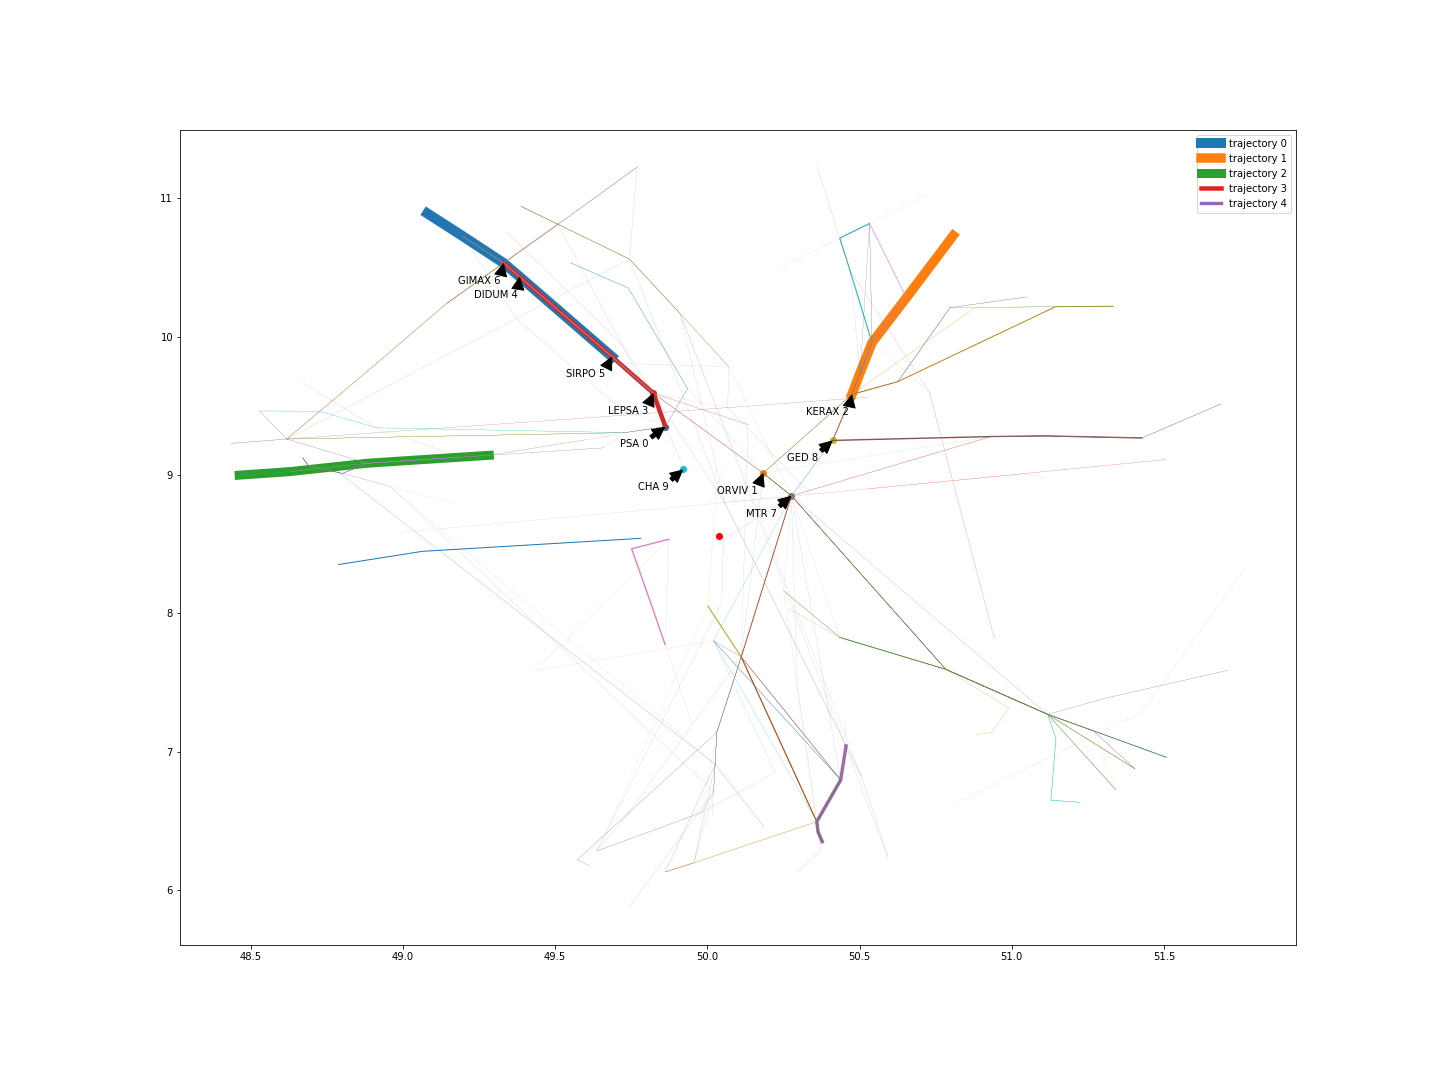
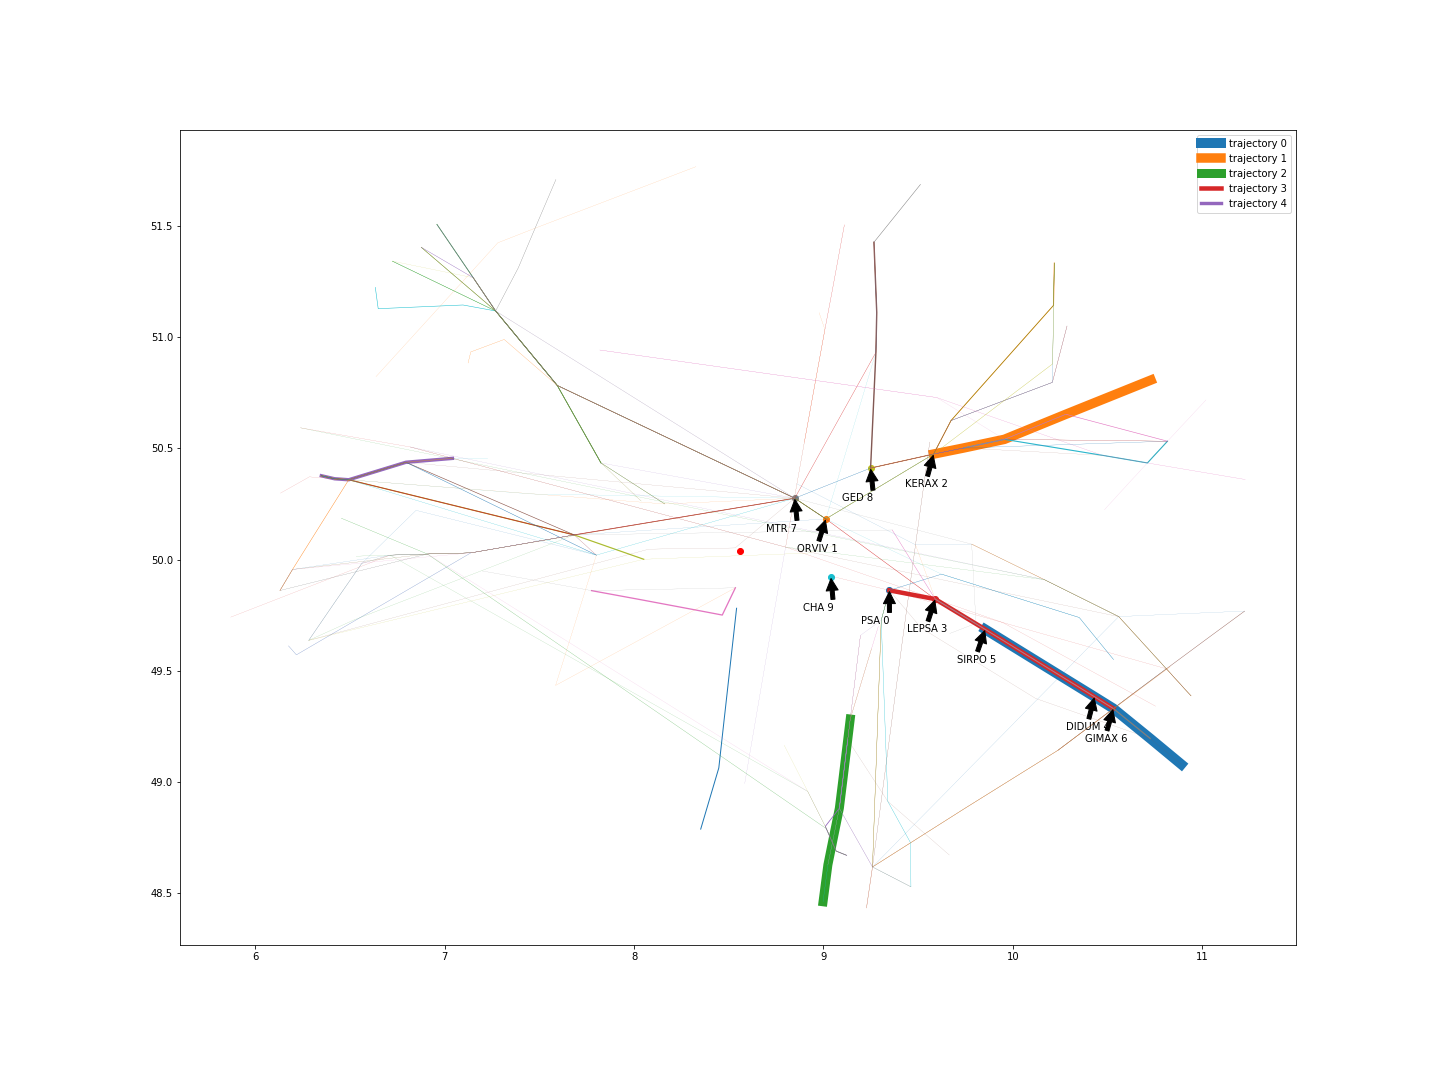
w:o:c

diff --git a/trajectory_study.py b/trajectory_study.py
@@ -394,19 +394,19 @@ for i in range(coord_traj.shape[0]):
     tr = coord_traj.iloc[i]
     if(i<5):
         if(tr["wp1"]!="None" and tr["wp2"]!="None" and tr["wp3"]!="None" and tr["wp4"]!="None" and tr["wp5"]!="None"):
-            plt.plot(coordinate_x[i,:],coordinate_y[i,:],linewidth=num_percorsi[i]/10,label = "trajectory "+str(i))
+            plt.plot(coordinate_y[i,:],coordinate_x[i,:],linewidth=num_percorsi[i]/10,label = "trajectory "+str(i))
 
         if(tr["wp1"]!="None" and tr["wp2"]!="None" and tr["wp3"]!="None" and
             tr["wp4"]!="None" and tr["wp5"]=="None"):
-                plt.plot(coordinate_x[i,:-1],coordinate_y[i,:-1],linewidth=num_percorsi[i]/10)
+                plt.plot(coordinate_y[i,:-1],coordinate_x[i,:-1],linewidth=num_percorsi[i]/10)
         if(tr["wp1"]!="None" and tr["wp2"]!="None" and tr["wp3"]!="None" and
             tr["wp4"]=="None" and tr["wp5"]=="None"):
-                plt.plot(coordinate_x[i,:-2],coordinate_y[i,:-2],linewidth=num_percorsi[i]/10)
+                plt.plot(coordinate_y[i,:-2],coordinate_x[i,:-2],linewidth=num_percorsi[i]/10)
         else:
             continue
     if(i>=5):
         if(tr["wp1"]!="None" and tr["wp2"]!="None" and tr["wp3"]!="None" and tr["wp4"]!="None" and tr["wp5"]!="None"):
-            plt.plot(coordinate_x[i,:],coordinate_y[i,:],linewidth=num_percorsi[i]/10)
+            plt.plot(coordinate_y[i,:],coordinate_x[i,:],linewidth=num_percorsi[i]/10)
 
         #if(tr["wp1"]!="None" and tr["wp2"]!="None" and tr["wp3"]!="None" and
         #    tr["wp4"]!="None" and tr["wp5"]=="None"):
@@ -416,14 +416,14 @@ for i in range(coord_traj.shape[0]):
         #        plt.plot(coordinate_x[i,:-2],coordinate_y[i,:-2],linewidth=num_percorsi[i]/10)
         else:
             continue
-plt.scatter(50.037753, 8.560964,color="red")
+plt.scatter(8.560964,50.037753,color="red")
 for i in range(10):
     wp = wp_freq[i]
 
     for j in  range(len(wp_coord)):
         if wp==wayp[j]:
-            plt.scatter(coord_of_wp[j][0],coord_of_wp[j][1])
-            plt.annotate(wp+" "+str(i),xy=(coord_of_wp[j][0],coord_of_wp[j][1]), xytext=(coord_of_wp[j][0]-0.15,coord_of_wp[j][1] -0.15),arrowprops=dict(facecolor='black', shrink=0.05))
+            plt.scatter(coord_of_wp[j][1],coord_of_wp[j][0])
+            plt.annotate(wp+" "+str(i),xy=(coord_of_wp[j][1],coord_of_wp[j][0]), xytext=(coord_of_wp[j][1]-0.15,coord_of_wp[j][0] -0.15),arrowprops=dict(facecolor='black', shrink=0.05))
 
 plt.legend()
 plt.savefig("plot/traj_1_bis.png")
@@ -728,8 +728,8 @@ for i in range(len(aircraft)):
         else:
             continue
 
-
-
+wp_coord
+wp_dict
 def raggruppa_aerei(list_sim,index,air_list="aircr",df=df_traj):
      air = []
      for i in range(len(aircraft)):
@@ -746,6 +746,10 @@ def raggruppa_aerei(list_sim,index,air_list="aircr",df=df_traj):
      return air
 
 
-air_1 = raggruppa_aerei(list_sim)
+air_1 = raggruppa_aerei(list_sim,0)
 
 len(air_1)
+
+
+
+for i in range()
